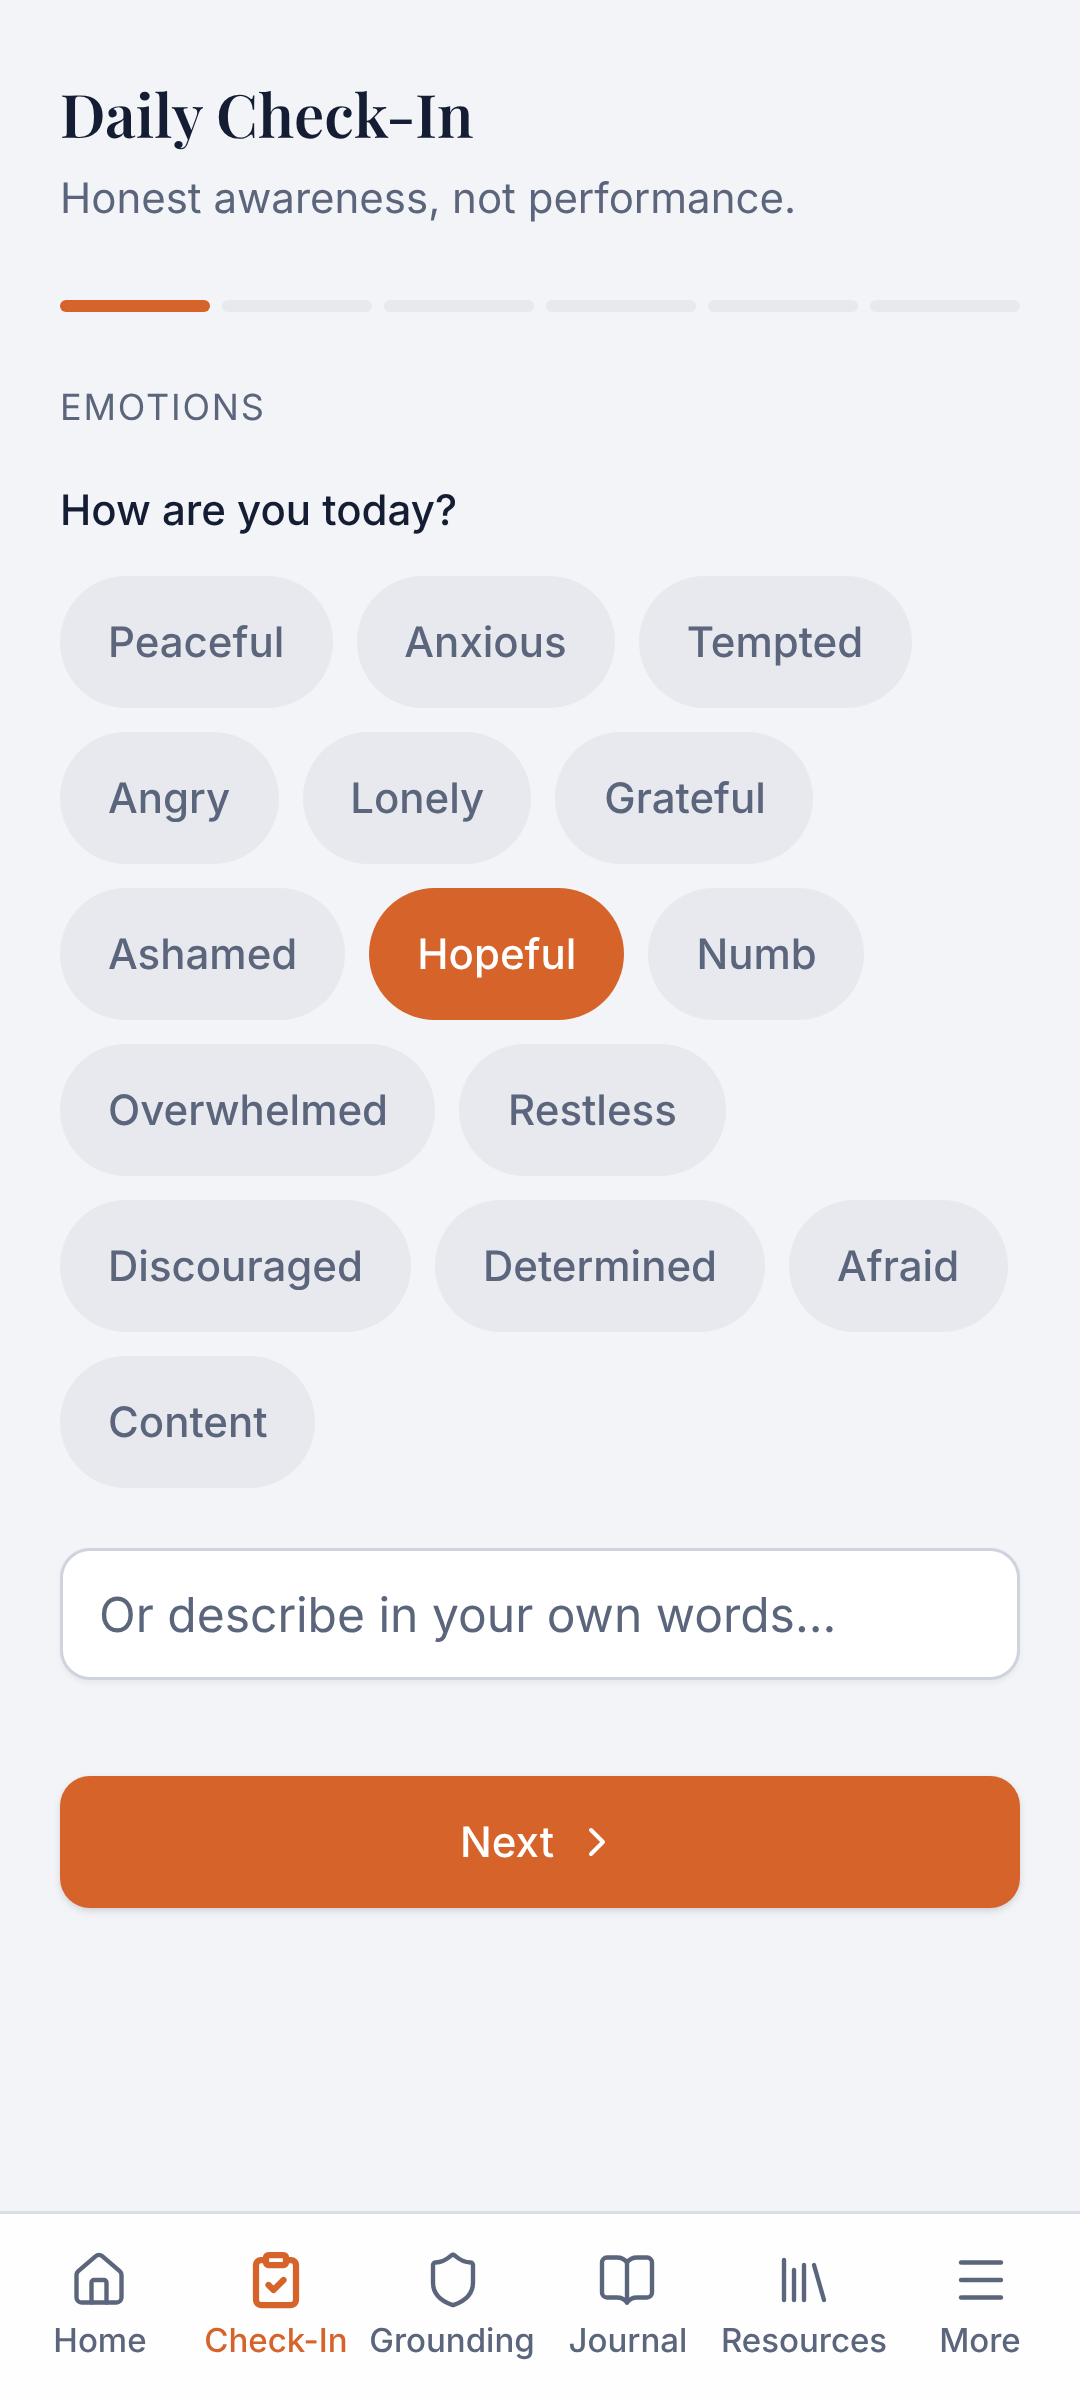
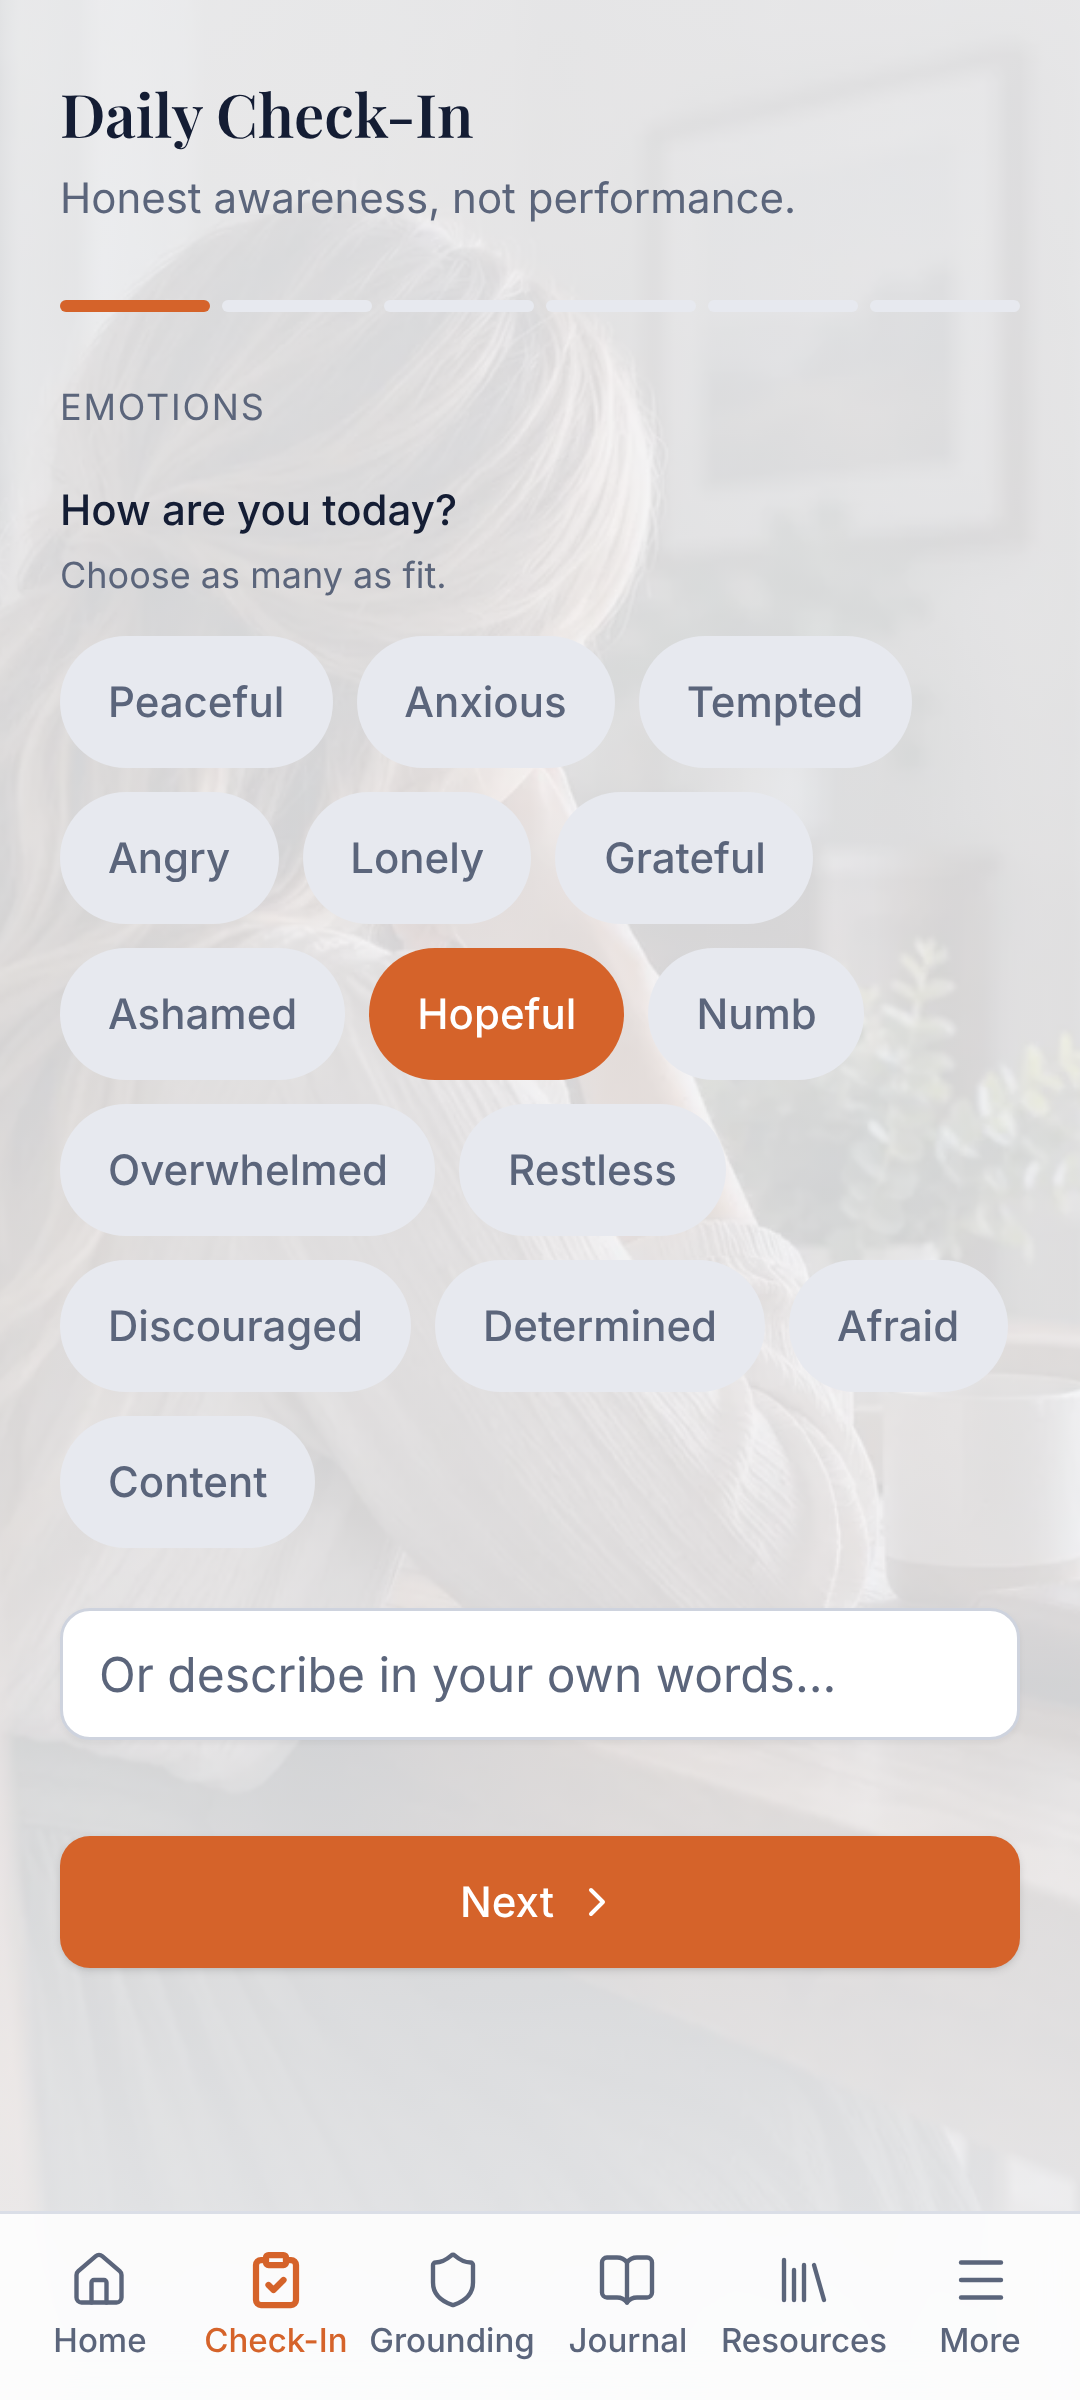
Add faded photo backgrounds to screens
Each screen gets a photo behind it under a heavy wash of the theme's
background color (navy in dark mode, soft light in light mode), matching
the faded reference: sunset study for Sign-in/Welcome/Home/Grounding/
Identity, quiet reflection for Check-In/Journal, pastoral counsel for
Resources/Library/Accountability, screens for Trigger Awareness.
Settings and Privacy stay plain. Photos are optimized WebP (~190 KB
total) and precached for offline use. Store screenshots regenerated.

Claude-Session: https://claude.ai/code/session_01TEFAANzDiQcpsyVRuxpyzX

Changed region(s): [[0.0, 0.0625, 1.0, 0.875], [0.825, 0.1562, 0.8861, 0.1875], [0.3972, 0.5, 0.4278, 0.5312]]

diff --git a/src/components/PageBackground.tsx b/src/components/PageBackground.tsx
@@ -1,0 +1,54 @@
+import { useLocation } from 'react-router'
+import { paths } from '@/app/routes'
+
+/**
+ * Faded photo behind each screen. The photo sits under a heavy wash of the
+ * theme's background color (navy in dark mode, soft grey-white in light), so
+ * it reads as atmosphere and never competes with the text.
+ */
+
+const PHOTOS = {
+  sunset: { src: '/backgrounds/sunset-study.webp', position: '22% 50%' },
+  reflection: { src: '/backgrounds/quiet-reflection.webp', position: '30% 50%' },
+  counsel: { src: '/backgrounds/pastoral-counsel.webp', position: '50% 40%' },
+  screens: { src: '/backgrounds/screens.webp', position: '50% 50%' },
+} as const
+
+type Photo = keyof typeof PHOTOS
+
+/** Which photo each screen uses. Screens not listed (Settings, Privacy) stay plain. */
+const ROUTE_PHOTOS: Record<string, Photo> = {
+  [paths.signIn]: 'sunset',
+  [paths.resetPassword]: 'sunset',
+  [paths.welcome]: 'sunset',
+  [paths.home]: 'sunset',
+  [paths.grounding]: 'sunset',
+  [paths.identity]: 'sunset',
+  [paths.checkIn]: 'reflection',
+  [paths.journal]: 'reflection',
+  [paths.resources]: 'counsel',
+  [paths.library]: 'counsel',
+  [paths.accountability]: 'counsel',
+  [paths.triggers]: 'screens',
+}
+
+export function PageBackground() {
+  const { pathname } = useLocation()
+  const name = ROUTE_PHOTOS[pathname.toLowerCase()]
+  if (!name) return null
+  const photo = PHOTOS[name]
+  return (
+    <div className="pointer-events-none fixed inset-0 -z-10 overflow-hidden" aria-hidden="true">
+      <img
+        key={photo.src}
+        src={photo.src}
+        alt=""
+        decoding="async"
+        draggable={false}
+        className="size-full animate-in object-cover fade-in duration-700"
+        style={{ objectPosition: photo.position }}
+      />
+      <div className="page-photo-fade absolute inset-0" />
+    </div>
+  )
+}

diff --git a/src/styles/index.css b/src/styles/index.css
@@ -33,6 +33,10 @@
   --ring: 20 67% 50%;
   --radius: 0.75rem;
   --tabbar-height: 4.25rem;
+  /* Faded page photos: how much of the background color covers the photo. */
+  --photo-fade-top: 0.9;
+  --photo-fade-mid: 0.86;
+  --photo-fade-bottom: 0.94;
 }
 
 .dark {
@@ -57,6 +61,9 @@
   --border: 222 30% 20%;
   --input: 222 30% 24%;
   --ring: 20 67% 52%;
+  --photo-fade-top: 0.88;
+  --photo-fade-mid: 0.8;
+  --photo-fade-bottom: 0.92;
 }
 
 @theme inline {
@@ -142,15 +149,23 @@
     border-color: var(--color-border);
   }
 
+  html {
+    background-color: var(--color-background);
+  }
+
   html,
   body {
-    background-color: var(--color-background);
     color: var(--color-foreground);
     font-family: var(--font-sans);
     overscroll-behavior: none;
     -webkit-font-smoothing: antialiased;
     -webkit-text-size-adjust: 100%;
     text-size-adjust: 100%;
+  }
+
+  /* Transparent so the faded page photo (z-index -10) shows through. */
+  body {
+    background-color: transparent;
   }
 
   #root {
@@ -185,6 +200,16 @@
 @utility pb-safe {
   padding-bottom: env(safe-area-inset-bottom, 0px);
 }
+@utility page-photo-fade {
+  background: linear-gradient(
+    to bottom,
+    hsl(var(--background) / var(--photo-fade-top)) 0%,
+    hsl(var(--background) / var(--photo-fade-mid)) 40%,
+    hsl(var(--background) / var(--photo-fade-mid)) 70%,
+    hsl(var(--background) / var(--photo-fade-bottom)) 100%
+  );
+}
+
 @utility scrollbar-hide {
   scrollbar-width: none;
   &::-webkit-scrollbar {

diff --git a/src/app/AppShell.tsx b/src/app/AppShell.tsx
@@ -4,6 +4,7 @@ import { App as CapApp } from '@capacitor/app'
 import { Keyboard } from '@capacitor/keyboard'
 import { SplashScreen } from '@capacitor/splash-screen'
 import { WifiOff } from 'lucide-react'
+import { PageBackground } from '@/components/PageBackground'
 import { TabBar } from '@/components/TabBar'
 import { useProfile } from '@/data/queries'
 import { useAuth } from '@/lib/auth'
@@ -89,7 +90,7 @@ export function TabsLayout() {
   if (!profile.data) return <Navigate to={paths.welcome} replace />
 
   return (
-    <div className="min-h-dvh bg-background pt-safe">
+    <div className="min-h-dvh pt-safe">
       {!online && (
         <div
           role="status"
@@ -158,6 +159,7 @@ export function RootLayout() {
     <>
       <NativeBridge />
       <ScrollRestoration />
+      <PageBackground />
       {content}
     </>
   )

diff --git a/src/pages/Onboarding.tsx b/src/pages/Onboarding.tsx
@@ -65,7 +65,7 @@ export default function Onboarding() {
   const options = NEEDS[track === 'spouse' ? 'spouse' : 'men']
 
   return (
-    <div className="flex min-h-dvh flex-col bg-background pt-safe pb-safe">
+    <div className="flex min-h-dvh flex-col pt-safe pb-safe">
       <div className="mx-auto flex w-full max-w-lg flex-1 flex-col">
         <div className="px-6 pb-2 pt-6">
           <StepProgress total={ONBOARDING_STEPS.length} current={step} />

diff --git a/vite.config.ts b/vite.config.ts
@@ -127,7 +127,7 @@ export default defineConfig(({ mode }) => {
           ],
         },
         workbox: {
-          globPatterns: ['**/*.{js,css,html,svg,png,ico,woff2}'],
+          globPatterns: ['**/*.{js,css,html,svg,png,webp,ico,woff2}'],
           navigateFallback: '/index.html',
           navigateFallbackDenylist: [/^\/functions\//, /^\/auth\//, /^\/rest\//],
           cleanupOutdatedCaches: true,

diff --git a/src/pages/ResetPassword.tsx b/src/pages/ResetPassword.tsx
@@ -53,7 +53,7 @@ export default function ResetPassword() {
   }
 
   return (
-    <div className="flex min-h-dvh flex-col bg-background px-6 pt-safe pb-safe">
+    <div className="flex min-h-dvh flex-col px-6 pt-safe pb-safe">
       <div className="mx-auto flex w-full max-w-sm flex-1 flex-col justify-center gap-6 py-10">
         <BrandMark className="mx-auto size-16" />
 

diff --git a/src/pages/SignIn.tsx b/src/pages/SignIn.tsx
@@ -98,7 +98,7 @@ export default function SignIn() {
   )
 
   return (
-    <div className="flex min-h-dvh flex-col bg-background px-6 pt-safe pb-safe">
+    <div className="flex min-h-dvh flex-col px-6 pt-safe pb-safe">
       <div className="mx-auto flex w-full max-w-sm flex-1 flex-col justify-center py-10">
         <BrandLogo className="mx-auto mb-8 h-auto w-56" />
 
